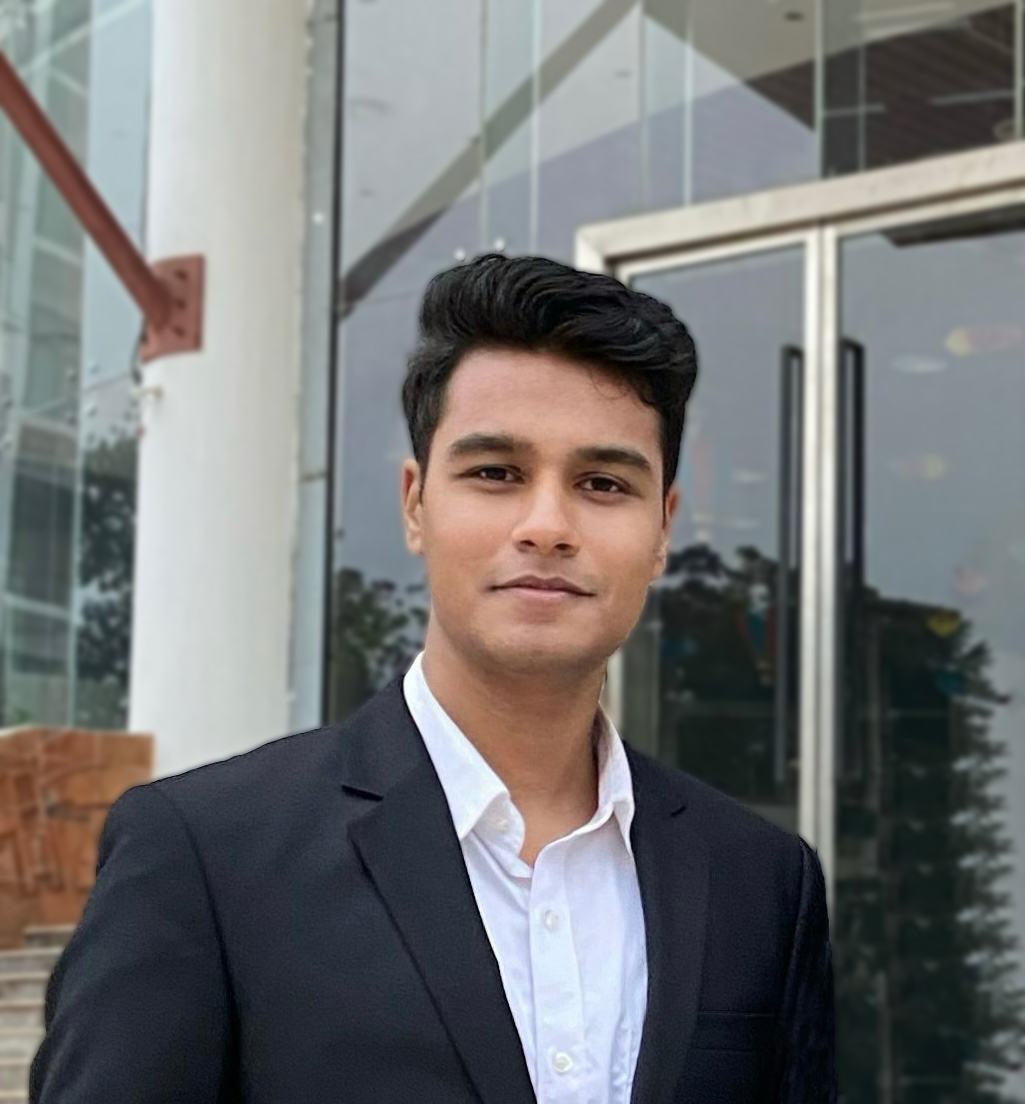
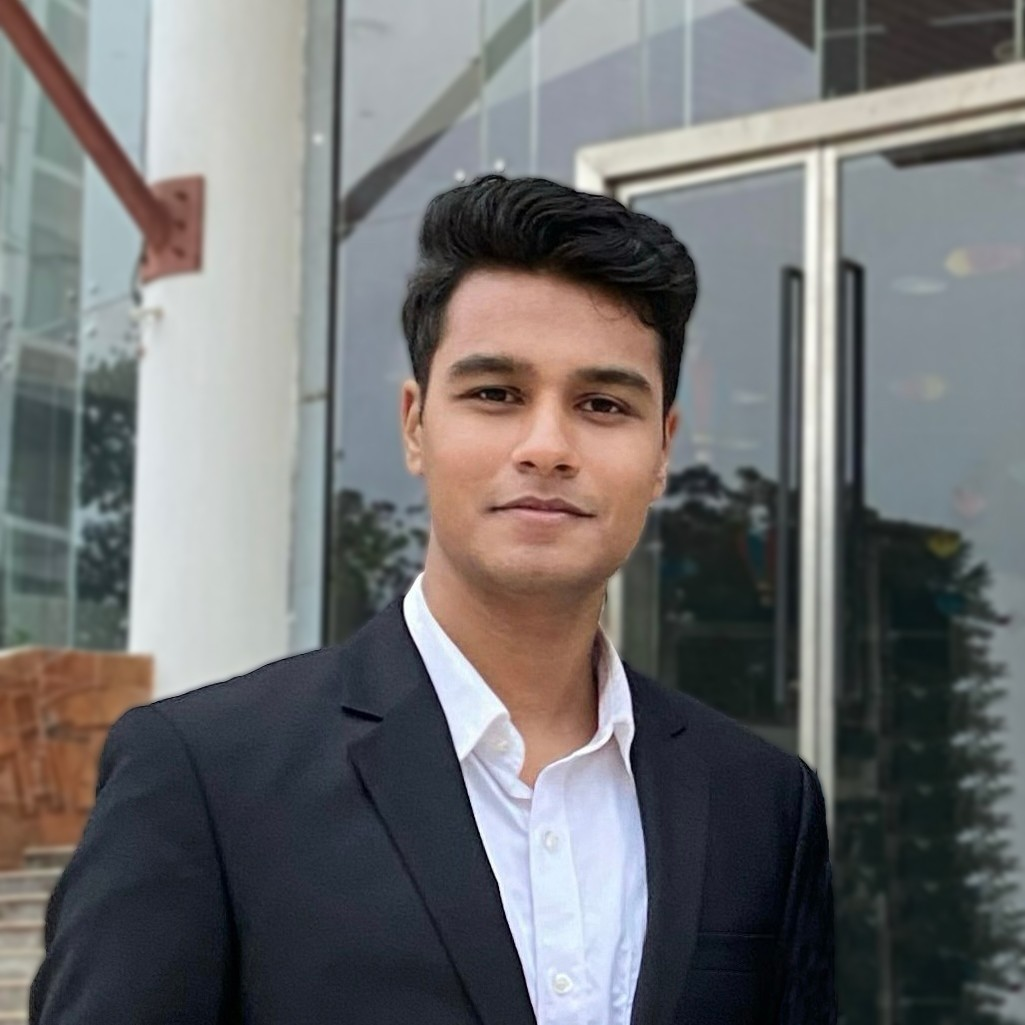
dp altered

diff --git a/index.html b/index.html
@@ -129,7 +129,7 @@
               </div>
             </div>
             <div class="col-md-4 ">
-              <img src="assets/IMG_2721.JPG" class="img-fluid" style="border-radius: 50%;" alt="Me">
+              <img src="assets/IMG_6954-fixed 2 - Blur.jpg" class="img-fluid" style="border-radius: 50%;" alt="Me">
             </div>
           </div>
 
